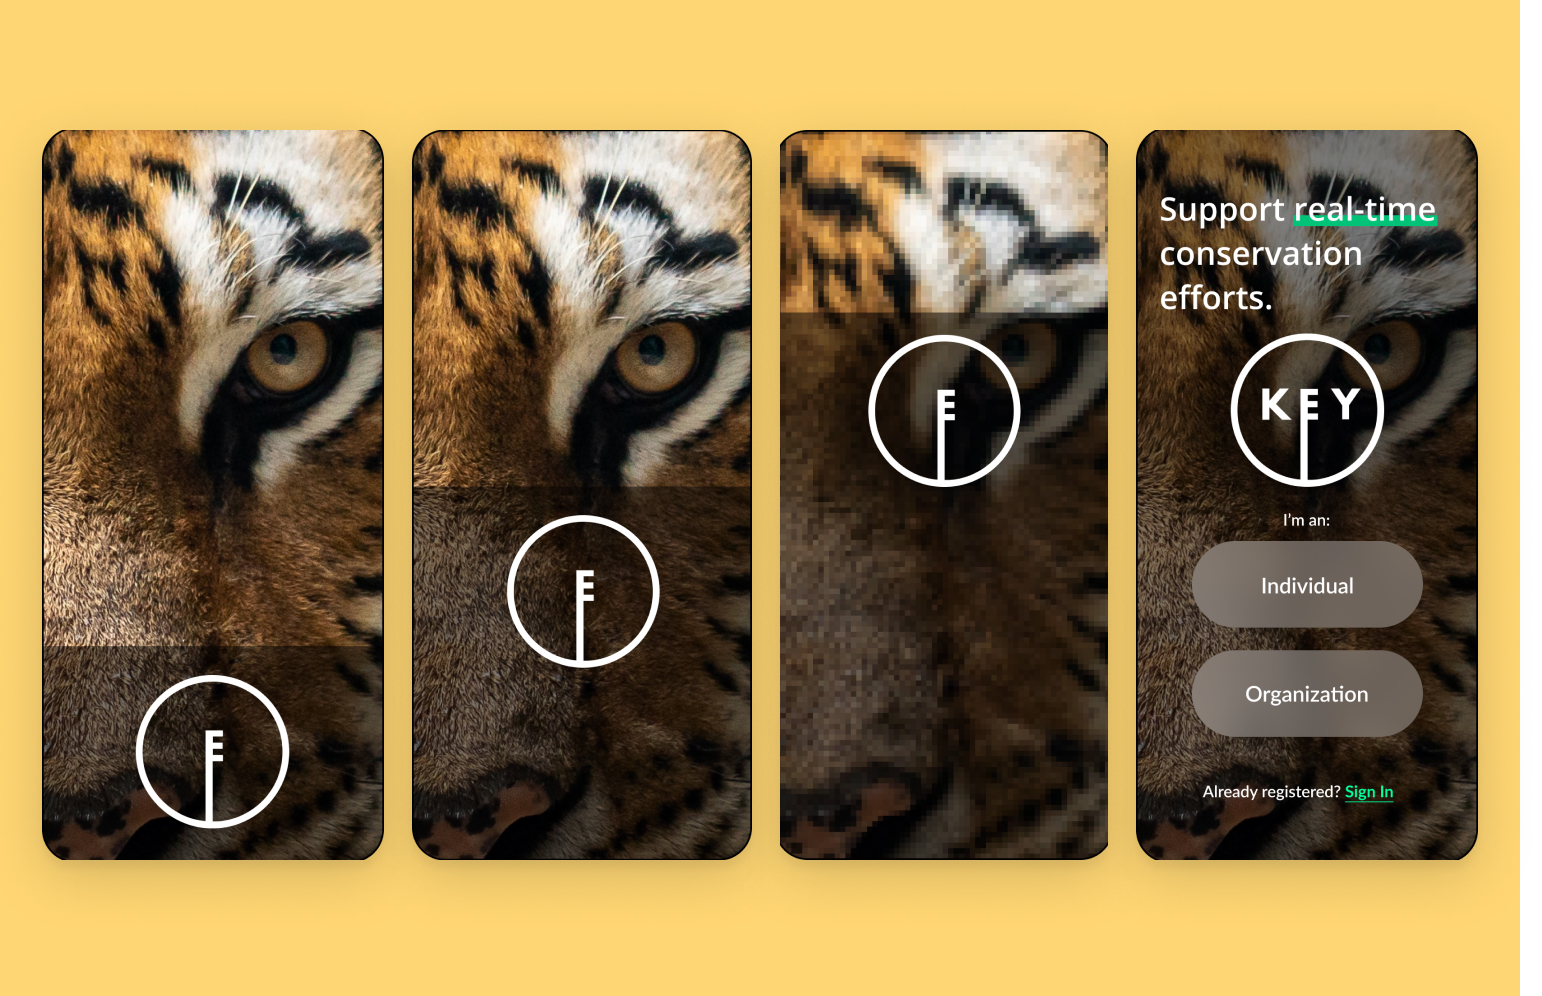
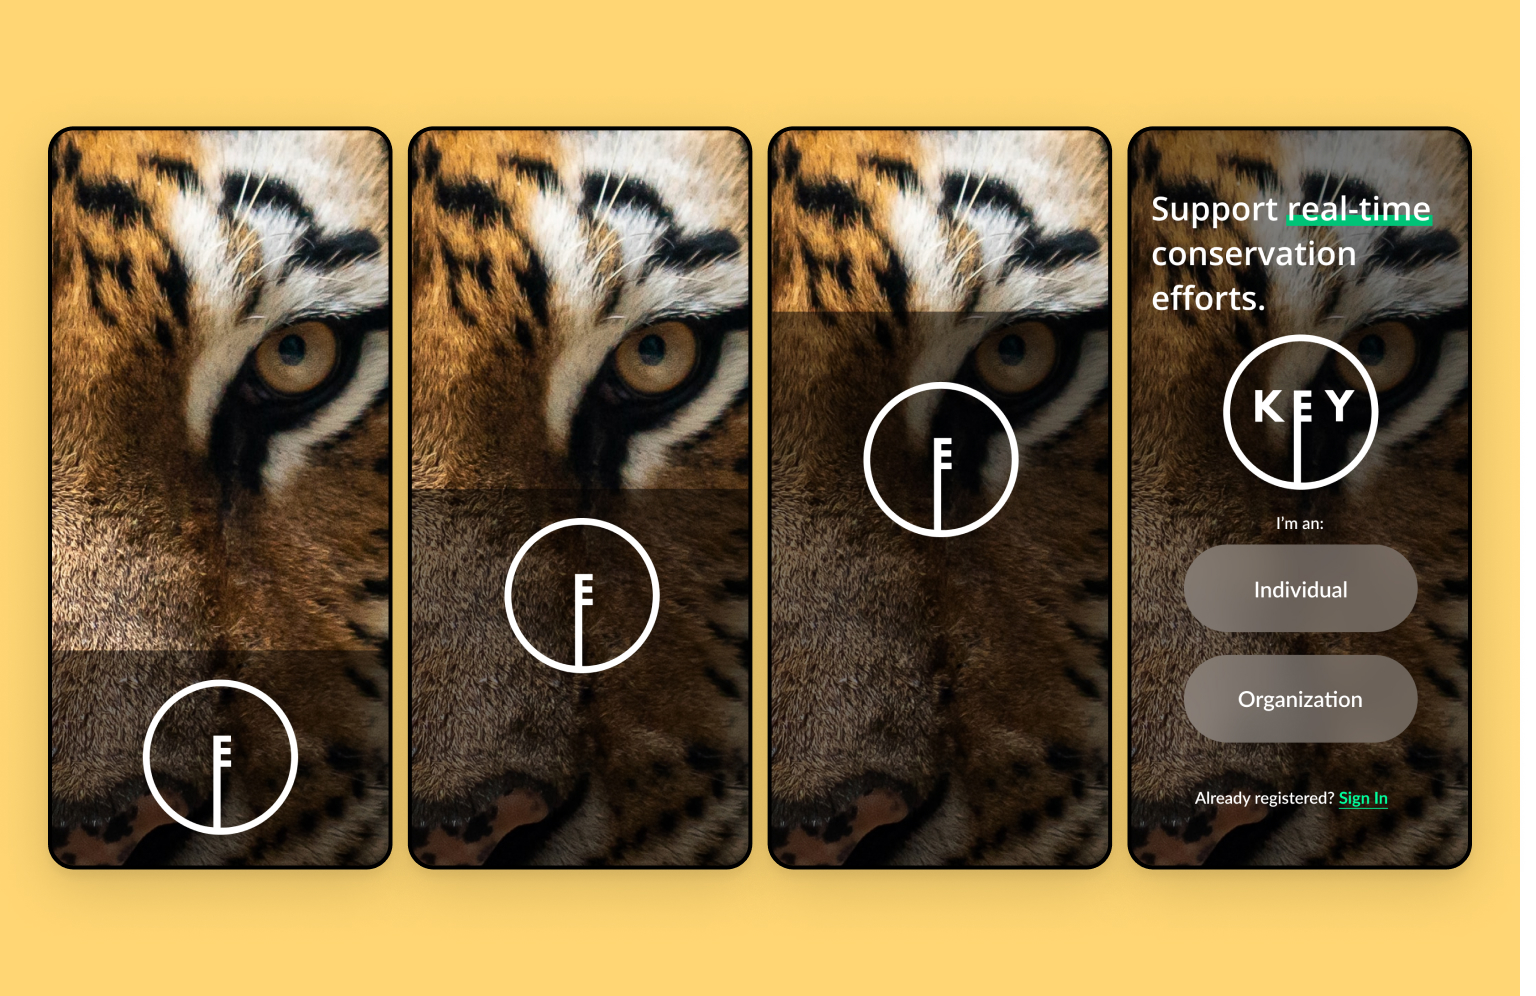
Project Index Page updates
Switched out pixelated images
Updated case study descriptions
Made font size changes to case study text (NICU only, to compare)

Changed region(s): [[0.0, 0.0, 1.0, 1.0], [0.875, 0.4357, 0.9062, 0.4669], [0.4062, 0.7159, 0.4375, 0.747]]

diff --git a/pages/projects.html b/pages/projects.html
@@ -70,7 +70,7 @@
                       <!--Col 1: Photo-->
                       <div style="flex:3; padding-right: 16px;">
                         <a class="project-index-image" href="./projects-key-conservation-app.html">
-                          <img src="./../images/projects/index/0-101-key-cons.png" width="100%">
+                          <img src="./../images/projects/index/image-key.jpg" width="100%">
                         </a>
                       </div>
                       <!--Col 2: Text-->
@@ -81,8 +81,8 @@
                             Mobile App &bull; UI/UX Design
                           </h5>
                           <p style="font-size: 1.4rem; line-height: 150%; margin-bottom: 0px;">
-                            <b>Replenishing biodiversity through citizen science:</b>
-                            Key Conservation empowers anyone with a smartphone to assist organizations with research and conservation campaigns &ndash; locally and in real-time.
+                            <b>Enlisting community to replenish local biodiversity</b><br>
+                            Key Conservation empowers anyone carrying a smartphone to help conservation organizations with small to large scale campaigns &ndash; locally and in real-time.
                             <!-- old text
                               Crowdsourcing community to replenish biodiversity:  Key Conservation empowers anyone carrying a smartphone to help conservation organizations with small to large scale campaigns -- locally and in real-time. -->
                           </p>
@@ -104,7 +104,7 @@
                       <!--Col 1: Photo-->
                       <div style="flex:3; padding-right: 16px;">
                         <a class="project-index-image" href="./projects-kaiser-nicu.html">
-                          <img src="./../images/projects/index/0-102-nicu.png" width="100%" style="border: 1px solid rgba(0, 0, 0, 0.274);">
+                          <img src="./../images/projects/index/image-nicu.jpg" width="100%">
                         </a>
                       </div>
                       <!--Col 2: Text-->
@@ -112,12 +112,14 @@
                         <!-- Top-aligned -->
                         <div>
                           <h5>
-                            Environment &bull; Architectural Design
+                            Built Environment &bull; Project Designer
                           </h5>
-                          <p style="font-size: 1.4rem; line-height: 150%; margin-bottom: 0px;">
-                            <b>Supporting society's most fragile:</b> 
-                            Kaiser San Diego's Neonatal Intensive Care Unit pushed the envelope of tradition by pioneering private patient rooms, based on research showing improved outcomes when families are included as members of their infants' care teams.
-                          </p>
+                          <h3 style="margin-bottom:12px">
+                            Supporting our most fragile members of society
+                          </h3>
+                          <p style="font-size: 1.4rem; line-height: 175%; margin-bottom: 0px;">
+                            Kaiser's Neonatal Intensive Care Unit pioneered an evidence-based approach featuring private rooms for infants and their families &ndash; based on the idea that families are a necessary part of the infant patients' care teams.
+                          </p> 
 
                         </div>
                         <!-- Bottom-aligned -->
